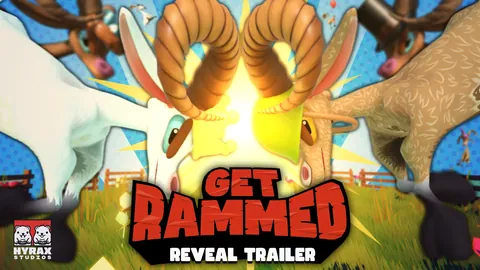
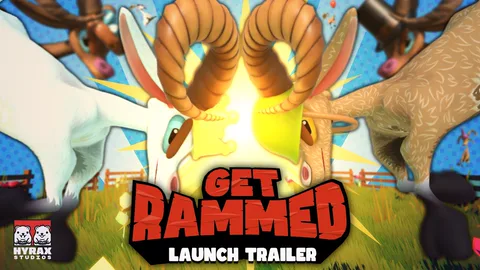
fix: stack chapter burst below head and update Get Rammed trailer
- Give the game chapter stage an explicit z-index so the burst stays below the head
- Promote the chapter head with translateZ(0) so iOS Safari does not paint the burst over the logo and tagline
- Swap the Get Rammed trailer to the launch trailer and update its title and poster images
- Bump version to 2.0.1

Changed region(s): [[0.3438, 0.9185, 0.6562, 0.9778]]

diff --git a/src/App.css b/src/App.css
@@ -1227,6 +1227,8 @@
 
 .game-chapter__stage {
     position: relative;
+    /* An explicit layer below the head, so the burst's order never depends on compositing. */
+    z-index: 0;
     width: var(--screen-width);
 }
 
@@ -1273,6 +1275,9 @@
        stacking layer from the landing "thud" animation, so without this it paints over the logo. */
     position: relative;
     z-index: 1;
+    /* iOS Safari composites the masked, animated burst onto its own GPU layer and, while scrolling,
+       can paint it over the logo and tagline. Promoting the head to its own layer keeps it on top. */
+    transform: translateZ(0);
     display: grid;
     justify-items: center;
     gap: 0.6rem;
